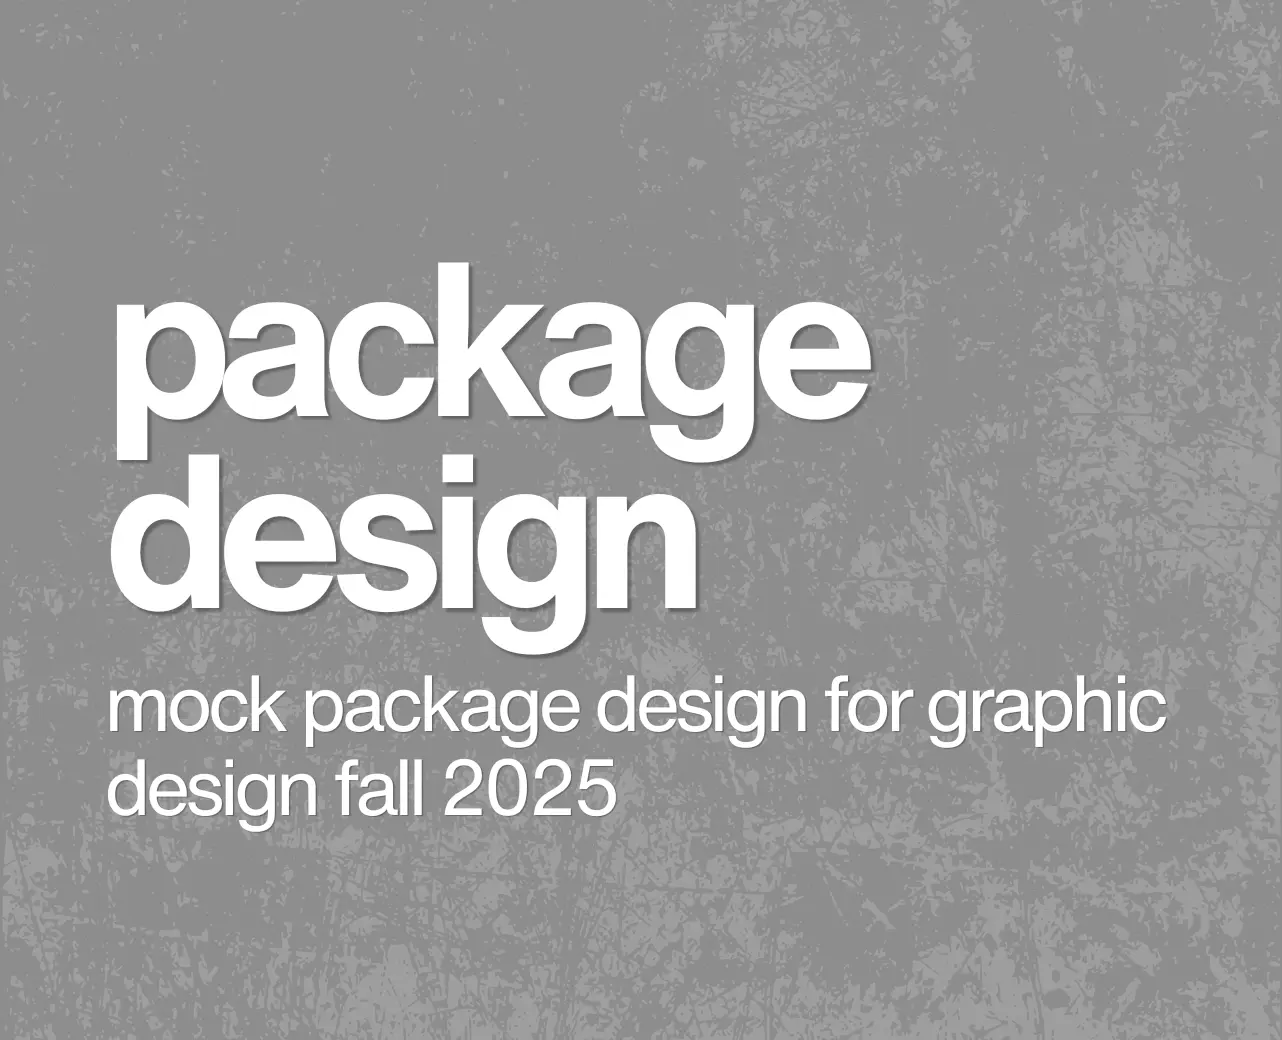
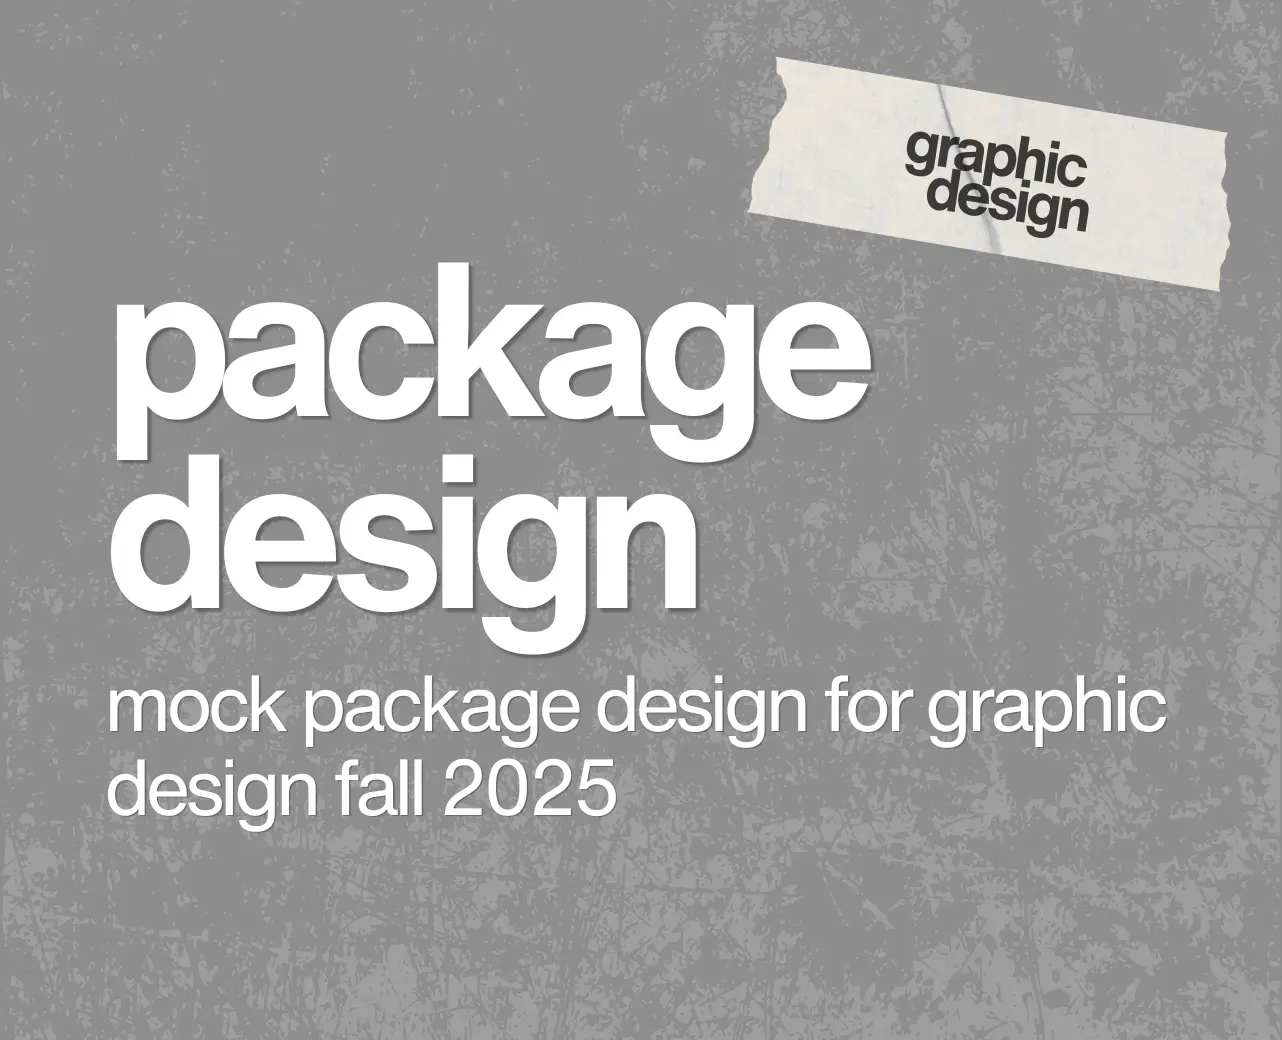
more stickers :/

Changed region(s): [[0.5616, 0.0308, 0.9672, 0.2769]]

diff --git a/projects.html b/projects.html
@@ -186,7 +186,7 @@
 						data-bs-target="#projeightdetail"
 					>
 						<img 
-							src="images/package.webp"
+							src="images/jiaozi.webp"
 							alt="Open mock package design for graphic design fall 2025"
 						>
 					</button>
@@ -205,7 +205,7 @@
 						data-bs-target="#projninedetail"
 					>
 						<img 
-							src="images/mwmo.webp"
+							src="images/katseye.webp"
 							alt="Open "MWMO infographic," Sample to Insight infographic for the Mississippi Watershed Management Organization."
 						>
 					</button>
